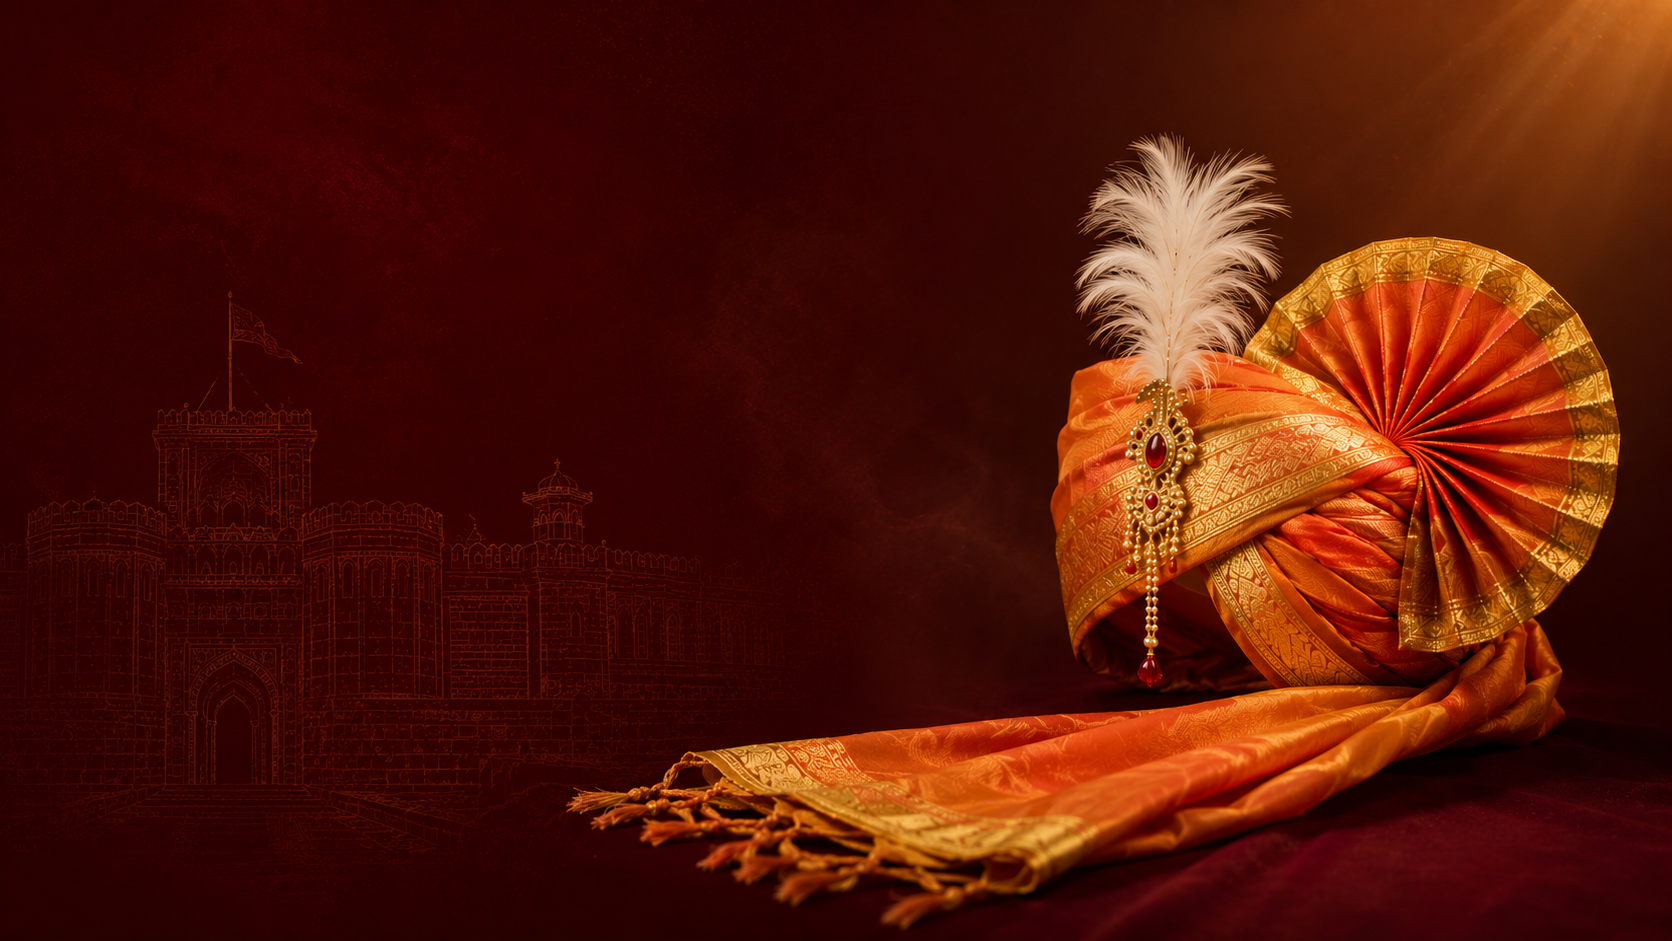
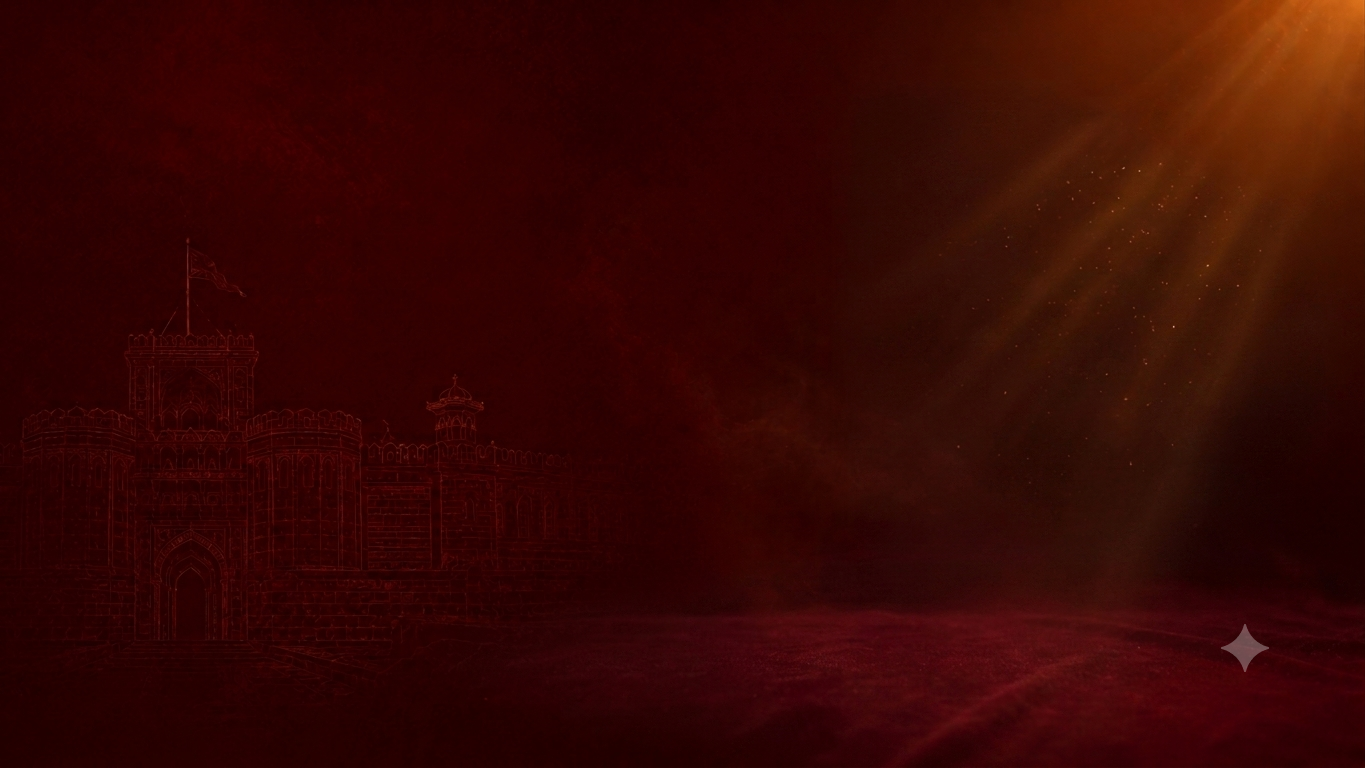
test

Changed region(s): [[0.3385, 0.125, 1.0, 1.0]]

diff --git a/frontend/src/components/sections/Footer.tsx b/frontend/src/components/sections/Footer.tsx
@@ -32,27 +32,18 @@ export const Footer: React.FC = () => {
                 href="https://www.instagram.com/pheta_by_nihar_tambde/?hl=en"
                 target="_blank"
                 rel="noopener noreferrer"
-                className="w-10 h-10 rounded-full bg-white/10 flex items-center justify-center hover:bg-[#E1306C] hover:text-white transition-all shadow-sm group"
+                className="w-10 h-10 rounded-full bg-white/10 flex items-center justify-center ] hover:text-white transition-all shadow-sm group"
                 title="Follow on Instagram (@pheta_by_nihar_tambde)"
                 aria-label="Instagram Brand"
               >
                 <InstagramIcon className="w-5 h-5 text-[#D7A65B] group-hover:text-white transition-colors" />
               </a>
-              <a
-                href="https://instagram.com/_nihar_tambde_6895"
-                target="_blank"
-                rel="noopener noreferrer"
-                className="w-10 h-10 rounded-full bg-white/10 flex items-center justify-center hover:bg-[#E1306C] hover:text-white transition-all shadow-sm group"
-                title="Follow Nihar Tambde on Instagram (@_nihar_tambde_6895)"
-                aria-label="Instagram Personal"
-              >
-                <InstagramIcon className="w-5 h-5 text-[#D7A65B] group-hover:text-white transition-colors" />
-              </a>
+
               <a
                 href="https://www.facebook.com/profile.php?id=100086398737546"
                 target="_blank"
                 rel="noopener noreferrer"
-                className="w-10 h-10 rounded-full bg-white/10 flex items-center justify-center hover:bg-[#1877F2] hover:text-white transition-all shadow-sm group"
+                className="w-10 h-10 rounded-full bg-white/10 flex items-center justify-center  hover:text-white transition-all shadow-sm group"
                 title="Facebook Page (Pheta By Nihar)"
                 aria-label="Facebook Page"
               >
@@ -62,7 +53,7 @@ export const Footer: React.FC = () => {
                 href="https://www.youtube.com/channel/UCyIW3yq9Vyt9fAIe8x_EWtg"
                 target="_blank"
                 rel="noopener noreferrer"
-                className="w-10 h-10 rounded-full bg-white/10 flex items-center justify-center hover:bg-[#FF0000] hover:text-white transition-all shadow-sm group"
+                className="w-10 h-10 rounded-full bg-white/10 flex items-center justify-center hover:text-white transition-all shadow-sm group"
                 title="Subscribe on YouTube"
                 aria-label="YouTube Channel"
               >
